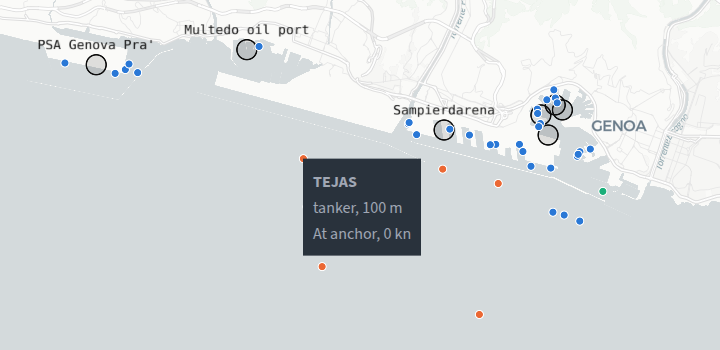
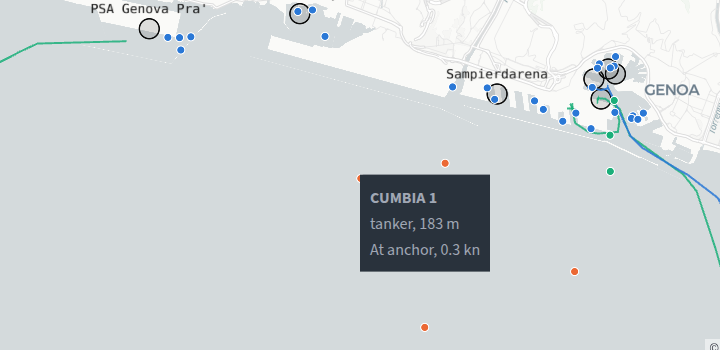
update images

diff --git a/README.md b/README.md
@@ -4,14 +4,15 @@
 
 Real-time port congestion monitor and berth allocation optimizer for the Port of Genoa, built on live AIS ship-tracking data.
 
-![Dashboard: data status panel, vessels by state, port map and hourly congestion](docs/dashboard.png)
+![Dashboard: diagnostics sidebar, data status panel, vessels by state, port map with vessel tracks, and hourly congestion](docs/dashboard.png)
 
 ## What it does
 
-- **Monitors the port live.** Every vessel in the port area is classified as *at berth*, *at anchor* or *underway*, and the dashboard shows the counts, a map, and how long commercial vessels have been waiting at anchor.
+- **Monitors the port live.** Every vessel in the port area is classified as *at berth*, *at anchor* or *underway*, and the dashboard shows the counts, a map with the paths of the vessels that moved in the last 3 hours, and how long commercial vessels have been waiting at anchor.
 - **Tracks congestion over time.** An hourly series of commercial vessels at anchor, with gaps where no data was collected rather than misleading zeros.
 - **Proposes a berth plan.** A constraint-programming model (OR-Tools CP-SAT) assigns every waiting vessel a compatible berth and a mooring time, minimizing the total wait, around the vessels already moored.
 - **Says how far to trust itself.** A status badge and panel show data freshness, continuous collection time, which stay durations are measured and which are still defaults, and database usage. Vessels the plan cannot place are listed, not dropped.
+- **Diagnoses its own outages.** When data stop, a sidebar check tells which link broke: the database, the ingestion, or the AIS feed itself (no coverage over the port, or the service down).
 
 Hovering the map shows each vessel's name, type, length, state and speed, and each berth area's berths and accepted vessel types:
 
